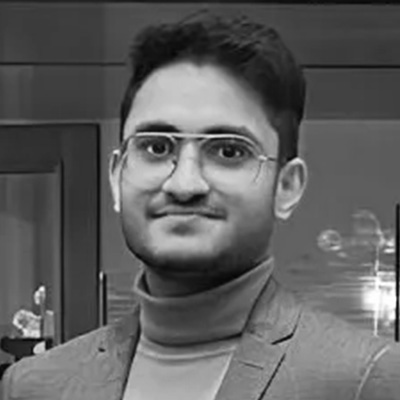
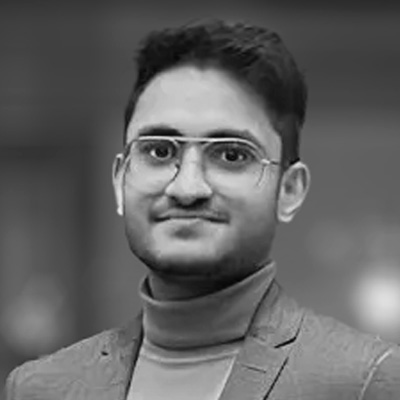
update TA info

diff --git a/_people/Students/Akshay.md b/_people/Students/Akshay.md
@@ -12,9 +12,6 @@ modal : "no"
 modalname: "akshay"
 fullpage: "no"
 links:
-    - label: "Email"
-      icon: "fas fa-fw fa-envelope-square"
-      url: 
     - label: "Website"
       icon: "fas fa-fw fa-link"
       url: 
@@ -23,7 +20,7 @@ links:
       url: 
     - label: "Linkedin"
       icon: "fab fa-fw fa-linkedin"
-      url: 
+      url: "https://www.linkedin.com/in/akshayyrr/"
       
 ---
 

diff --git a/_people/Students/Laksh.md b/_people/Students/Laksh.md
@@ -5,7 +5,7 @@ position: Master's Student (Interaction Design)
 role: "student"
 date: 20241002
 header:
-    teaser: assets/img/people/placeholder_person.jpg
+    teaser: assets/img/people/imxd_people_lakshrajpal.jpg
 permalink: /people/laksh
 type: people
 modal : "no"
